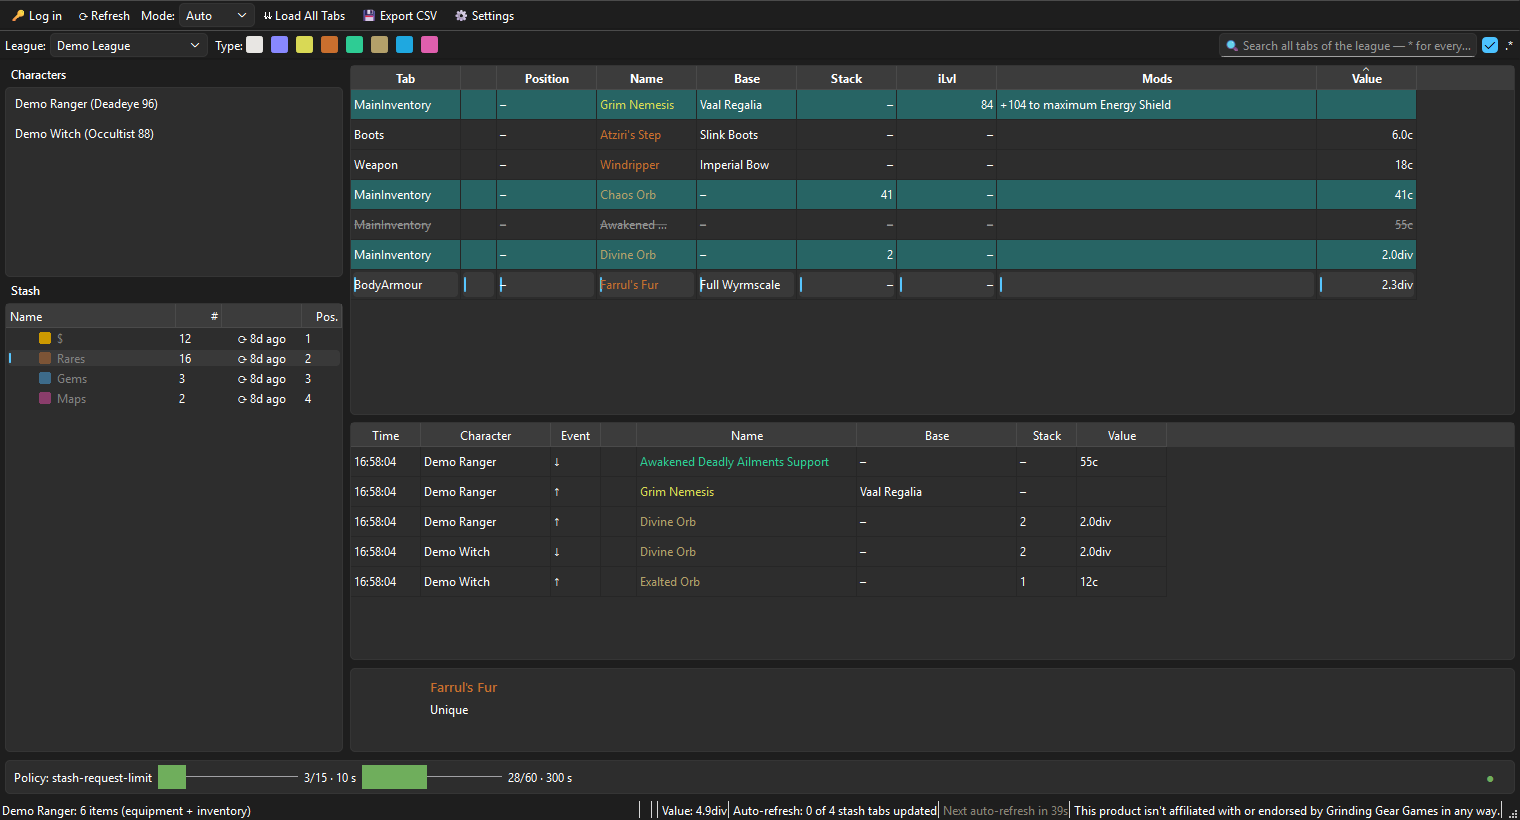
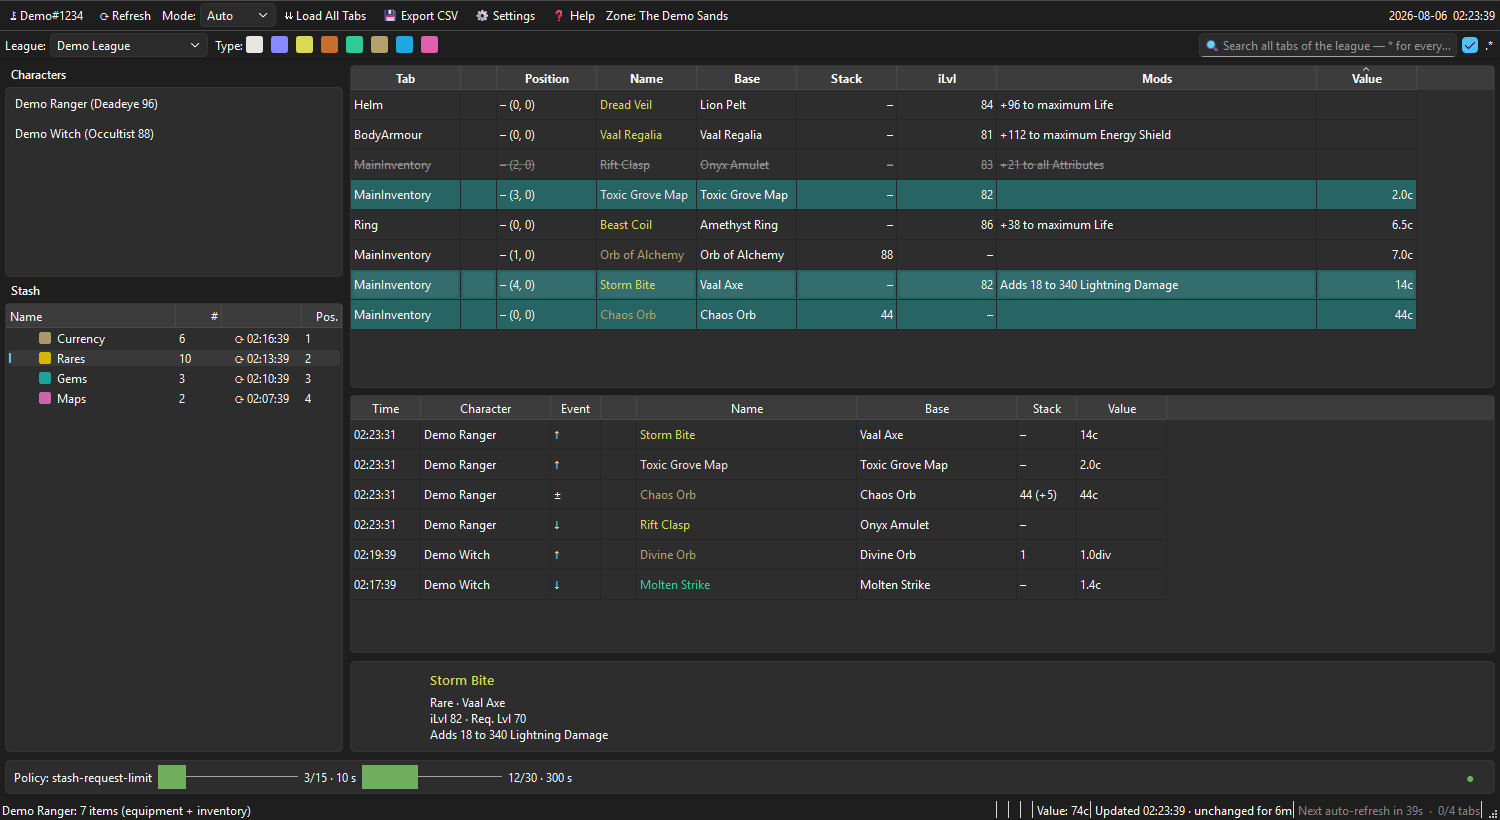
README-Screenshots aus erfundenen Daten neu erzeugt, per Generator
Die drei Bilder stammten vom 2026-08-02 und zeigten eine Oberfläche, die
es so nicht mehr gibt: alte Statuszeile, kein Hilfe-Knopf, keine Uhr,
keine Zonenanzeige, kein "unchanged for".

Statt sie erneut von Hand aufzunehmen, gibt es jetzt
tools/make_screenshots.py. Zwei Gründe. Erstens die Regel über den
Bildern in der README — keine echten Konto-, Charakter- oder Item-Namen.
Die hält von Hand nur, solange beim Aufnehmen jemand daran denkt; hier
stehen die erfundenen Daten im Klartext im Skript. Zweitens veralten die
Bilder sonst wieder, während die Oberfläche weiterläuft. RELEASING.md
nennt den Aufruf jetzt als Schritt vor jedem Release.

config.APP_DATA_DIR zeigt während des Laufs auf ein temporäres
Verzeichnis — sonst läse der Generator den echten Cache und schriebe
womöglich die Spalteneinstellungen um. Dieselbe Vorsichtsmaßnahme wie in
tests/conftest.py.

Drei Dinge, die beim Bauen aufgefallen sind und im Skript kommentiert
stehen: Mit QT_QPA_PLATFORM=offscreen fehlen Qt Systemschriften UND
Systempalette — die Bilder waren hell und jedes Zeichen ein leeres
Kästchen. Der BootstrapJob überschreibt Knopf und Statuszeile mit "No
valid token"; seine Signale werden für den Lauf abgeklemmt. Und nach dem
Setzen der Texte muss das Layout noch einmal laufen, sonst behält die
Statuszeile ihre alten Breiten und schneidet ab — "unchanged for 6m"
stand im Label und fehlte trotzdem im Bild.

diff --git a/tools/make_screenshots.py b/tools/make_screenshots.py
@@ -1,0 +1,382 @@
+"""Erzeugt die README-Screenshots aus erfundenen Daten.
+
+Aufruf: python tools/make_screenshots.py
+
+**Warum ein Generator und keine Handarbeit.** Für die README gilt eine
+harte Regel (sie steht auch über den Bildern): Es dürfen keine echten
+Konto-, Charakter- oder Item-Namen zu sehen sein. Von Hand aufgenommene
+Bilder halten diese Regel nur so lange, wie beim Aufnehmen jemand daran
+denkt — und sie müssen bei jeder Oberflächenänderung neu aufgenommen
+werden, sonst zeigt die README eine Version, die es nicht mehr gibt. Die
+alten drei Bilder vom 2026-08-02 zeigten deshalb noch die Statuszeile von
+vor dem Aufräumen, ohne Hilfe-Knopf, ohne Uhr, ohne Zonenanzeige.
+
+Dieses Skript nimmt beides ab: Die Daten sind erfunden und stehen unten
+im Klartext, und der nächste Lauf bringt die Bilder auf den aktuellen
+Stand der Oberfläche.
+
+**Kein Zugriff auf echte lokale Daten.** ``config.APP_DATA_DIR`` wird auf
+ein temporäres Verzeichnis umgebogen, bevor das Fenster entsteht — sonst
+läse der Generator Peters Cache und schriebe ihm womöglich seine
+Spalteneinstellungen um. Dieselbe Vorsichtsmaßnahme wie in
+``tests/conftest.py``, und aus demselben Grund: In diesem Projekt sind
+schon zweimal Daten verlorengegangen, weil etwas in die echte Datei
+geschrieben hat, das es nicht sollte (FALLSTRICKE #62).
+
+**Läuft NICHT headless**, anders als die Testsuite. Mit
+``QT_QPA_PLATFORM=offscreen`` fehlen Qt sowohl die Systemschriften als
+auch die Systempalette: Der erste Versuch lieferte Bilder, in denen jedes
+Zeichen ein leeres Kästchen war und die Oberfläche hell statt dunkel
+erschien — das dunkle Aussehen kommt unter Windows 11 aus der
+Systemeinstellung, die Anwendung setzt selbst keine Palette. Das Fenster
+erscheint während des Laufs also kurz auf dem Bildschirm. Das ist der
+Preis dafür, dass die Bilder so aussehen wie das Programm.
+"""
+
+from __future__ import annotations
+
+import sys
+import tempfile
+from datetime import datetime, timedelta, timezone
+from pathlib import Path
+
+sys.path.insert(0, str(Path(__file__).resolve().parent.parent))
+
+from PySide6.QtWidgets import QApplication, QSplitter  # noqa: E402
+
+from poe_view import config  # noqa: E402
+
+_TMP = Path(tempfile.mkdtemp(prefix="poe-view2-screenshots-"))
+config.APP_DATA_DIR = _TMP  # VOR jedem Import, der das Fenster baut
+
+from poe_view.api.models import Character, Item, StashTab  # noqa: E402
+from poe_view.api.ninja import PriceIndex  # noqa: E402
+from poe_view.services import data_cache, token_store  # noqa: E402
+
+data_cache._CACHE_FILE = _TMP / "unused.json"
+token_store.load_token = lambda: None  # kein echtes Konto, kein echter Login
+
+from poe_view.ui.item_history import HistoryEntry  # noqa: E402
+from poe_view.ui.main_window import MainWindow  # noqa: E402
+
+OUT = Path(__file__).resolve().parent.parent / "docs" / "screenshots"
+LEAGUE = "Demo League"
+ACCOUNT = "Demo#1234"  # kurz genug, dass der Toolbar-Knopf ihn nicht kürzt
+
+# --------------------------------------------------------------------- #
+# Erfundene Daten. Namen bewusst als solche erkennbar ("Demo …") — ein
+# Screenshot soll niemanden glauben machen, hier stünde ein echtes Konto.
+
+_RARES = [
+    ("Doom Grip", "Titan Gauntlets", 84,
+     ["+78 to maximum Life", "+34% to Fire Resistance", "+29% to Cold Resistance"]),
+    ("Vaal Regalia", "Vaal Regalia", 81,
+     ["+112 to maximum Energy Shield", "+18% to all Elemental Resistances"]),
+    ("Hubris Circlet", "Hubris Circlet", 79,
+     ["+91 to maximum Mana", "+22% to Lightning Resistance"]),
+    ("Two-Toned Boots", "Two-Toned Boots", 83,
+     ["30% increased Movement Speed", "+40 to maximum Life"]),
+    ("Stygian Vise", "Stygian Vise", 86,
+     ["+45 to Strength and Intelligence", "+12% to Chaos Resistance"]),
+    ("Hate Song", "Opal Sceptre", 85,
+     ["+118 to maximum Life", "18% increased Cast Speed", "+1 to Level of all Fire Skills"]),
+    ("Dread Veil", "Lion Pelt", 84,
+     ["+96 to maximum Life", "+31% to Cold Resistance"]),
+    ("Beast Coil", "Amethyst Ring", 86,
+     ["+38 to maximum Life", "+15% to Chaos Resistance", "Adds 12 to 19 Chaos Damage"]),
+    ("Rift Clasp", "Onyx Amulet", 83,
+     ["+21 to all Attributes", "+27% to Fire Resistance", "9% increased Attack Speed"]),
+    ("Storm Bite", "Vaal Axe", 82,
+     ["Adds 18 to 340 Lightning Damage", "24% increased Attack Speed"]),
+]
+
+_CURRENCY = [("Chaos Orb", 42), ("Divine Orb", 3), ("Orb of Alchemy", 88),
+             ("Orb of Scouring", 24), ("Orb of Chance", 61), ("Vaal Orb", 12)]
+
+_GEMS = [("Determination", 21, 20), ("Molten Strike", 20, 23), ("Anomalous Haste", 20, 18)]
+
+_MAPS = [("Toxic Grove Map", 14), ("Sandy Seabed Map", 11)]
+
+# Sichtbare Spalten für die Bilder, in dieser Reihenfolge. Alles Weitere
+# (Level, Qual., Str/Dex/Int) bleibt aus — es würde die Value-Spalte aus
+# dem sichtbaren Bereich schieben.
+_COLUMN_CONFIG = [(name, name in ("Icon", "Position", "Name", "Base", "Stack",
+                                  "iLvl", "Mods", "Value"))
+                  for name in ("Icon", "Position", "Name", "Base", "Type", "Level",
+                               "Qual.", "Stack", "iLvl", "Req.Lvl", "Str", "Dex",
+                               "Int", "Mods", "Value")]
+
+_PRICES = {"Chaos Orb": 1.0, "Divine Orb": 171.2, "Orb of Alchemy": 0.08,
+           "Orb of Scouring": 0.26, "Orb of Chance": 0.06, "Vaal Orb": 0.37,
+           "Determination": 3.0, "Molten Strike": 1.4, "Anomalous Haste": 22.0,
+           "Toxic Grove Map": 2.0, "Sandy Seabed Map": 0.5,
+           "Storm Bite": 14.0, "Beast Coil": 6.5}
+
+
+def _rare(name: str, base: str, ilvl: int, mods: list[str], x: int, y: int) -> Item:
+    return Item.model_validate({
+        "id": f"rare-{name}", "name": name, "typeLine": base, "baseType": base,
+        "frameType": 2, "ilvl": ilvl, "explicitMods": mods, "x": x, "y": y,
+        "identified": True,
+        "requirements": [{"name": "Level", "values": [[str(ilvl - 12), 0]]}],
+    })
+
+
+def _currency(name: str, stack: int, x: int, y: int) -> Item:
+    return Item.model_validate({
+        "id": f"cur-{name}", "typeLine": name, "baseType": name, "frameType": 5,
+        "stackSize": stack, "maxStackSize": 5000, "x": x, "y": y,
+    })
+
+
+def _gem(name: str, level: int, quality: int, x: int, y: int) -> Item:
+    return Item.model_validate({
+        "id": f"gem-{name}", "typeLine": name, "baseType": name, "frameType": 4,
+        "x": x, "y": y,
+        "properties": [{"name": "Level", "values": [[str(level), 0]]},
+                       {"name": "Quality", "values": [[f"+{quality}%", 1]]}],
+    })
+
+
+def _map_item(name: str, tier: int, x: int, y: int) -> Item:
+    return Item.model_validate({
+        "id": f"map-{name}", "typeLine": name, "baseType": name, "frameType": 0,
+        "ilvl": 68 + tier, "x": x, "y": y,
+        "properties": [{"name": "Map Tier", "values": [[str(tier), 0]]},
+                       {"name": "Item Quantity", "values": [["+64%", 1]]}],
+    })
+
+
+def _price_index() -> PriceIndex:
+    index = PriceIndex()
+    index._simple.update(_PRICES)
+    return index
+
+
+def _stashes() -> list[StashTab]:
+    colours = {"Currency": "aa9a68", "Rares": "d4b800", "Gems": "1ba29b",
+               "Maps": "cc66aa"}
+    return [StashTab(id=key.lower(), name=key, type="PremiumStash", index=i,
+                     metadata={"colour": colours[key]})
+            for i, key in enumerate(("Currency", "Rares", "Gems", "Maps"), start=1)]
+
+
+def _items_by_tab() -> dict[str, list[Item]]:
+    return {
+        "currency": [_currency(n, s, i % 4, i // 4) for i, (n, s) in enumerate(_CURRENCY)],
+        "rares": [_rare(n, b, lvl, mods, i % 5, i // 5)
+                  for i, (n, b, lvl, mods) in enumerate(_RARES)],
+        "gems": [_gem(n, lv, q, i, 0) for i, (n, lv, q) in enumerate(_GEMS)],
+        "maps": [_map_item(n, t, i, 0) for i, (n, t) in enumerate(_MAPS)],
+    }
+
+
+def _characters() -> list[Character]:
+    return [
+        Character.model_validate({"name": "Demo Ranger", "league": LEAGUE, "classId": 5,
+                                  "ascendancyClass": 1, "class": "Deadeye", "level": 96,
+                                  "experience": 4_250_334_444}),
+        Character.model_validate({"name": "Demo Witch", "league": LEAGUE, "classId": 1,
+                                  "ascendancyClass": 2, "class": "Occultist", "level": 88,
+                                  "experience": 1_998_112_003}),
+    ]
+
+
+def _character_items(before: bool) -> list[Item]:
+    """Zwei Stände desselben Inventars — der Unterschied erzeugt im dritten
+    Bild die Türkis-/Grau-Hervorhebung, um die es dort geht."""
+    worn = [
+        _rare("Dread Veil", "Lion Pelt", 84, ["+96 to maximum Life"], 0, 0),
+        _rare("Vaal Regalia", "Vaal Regalia", 81, ["+112 to maximum Energy Shield"], 0, 0),
+        _rare("Beast Coil", "Amethyst Ring", 86, ["+38 to maximum Life"], 0, 0),
+    ]
+    for item, slot in zip(worn, ("Helm", "BodyArmour", "Ring")):
+        item.inventoryId = slot
+    if before:
+        bag = [_currency("Chaos Orb", 39, 0, 0), _currency("Orb of Alchemy", 88, 1, 0),
+               _rare("Rift Clasp", "Onyx Amulet", 83, ["+21 to all Attributes"], 2, 0)]
+    else:
+        # Chaos Orbs sind mehr geworden, das Amulett ist weg, zwei Dinge neu.
+        bag = [_currency("Chaos Orb", 44, 0, 0), _currency("Orb of Alchemy", 88, 1, 0),
+               _map_item("Toxic Grove Map", 14, 3, 0),
+               _rare("Storm Bite", "Vaal Axe", 82,
+                     ["Adds 18 to 340 Lightning Damage"], 4, 0)]
+    for item in bag:
+        item.inventoryId = "MainInventory"
+    return worn + bag
+
+
+# --------------------------------------------------------------------- #
+
+def _build_window() -> MainWindow:
+    win = MainWindow()
+    win.resize(1500, 820)
+    # Der BootstrapJob findet (absichtlich) kein Token und meldet "No valid
+    # token — please log in". Diese Meldung soll die Bilder nicht erreichen;
+    # die Verbindung wird deshalb gekappt, statt den gesetzten Zustand
+    # hinterher immer wieder zu reparieren. Der Worker läuft weiter, hat
+    # aber nichts mehr zu tun — es wird kein Job abgeschickt.
+    win.worker.login_required.disconnect(win._on_login_required)
+    win.worker.status.disconnect(win._on_status)
+    items = _items_by_tab()
+    now = datetime.now(timezone.utc)
+
+    win._account_name = ACCOUNT
+    win._logged_in = True
+    win._login_button.setText(f"⚷ {ACCOUNT}")
+    win._current_league = LEAGUE
+    win._stash_trees[LEAGUE] = _stashes()
+    win._leaf_stashes = list(win._stash_trees[LEAGUE])
+    win._items[LEAGUE] = items
+    win._last_loaded[LEAGUE] = {
+        sid: (now - timedelta(minutes=7 + i * 3)).isoformat()
+        for i, sid in enumerate(items)
+    }
+    win._all_characters = _characters()
+    win._character_items = {"Demo Ranger": _character_items(before=False)}
+
+    win._league_combo.blockSignals(True)
+    win._league_combo.clear()
+    win._league_combo.addItem(LEAGUE)
+    win._league_combo.blockSignals(False)
+    win.tree.set_stashes(win._stash_trees[LEAGUE], win._last_loaded[LEAGUE],
+                         {sid: len(v) for sid, v in items.items()},
+                         win._tab_positions())
+    win.character_list.set_characters(win._all_characters)
+    win.table_model.set_price_index(_price_index())
+    win.history_model.set_price_index(_price_index())
+    # Weniger Spalten als die Voreinstellung: Sonst schiebt die volle
+    # Breite (Level/Qual./Str/Dex/Int) ausgerechnet die Value-Spalte aus
+    # dem Bild — die, von der der README-Text daneben handelt. Gezeigt
+    # wird damit auch, dass die Spaltenauswahl konfigurierbar ist.
+    win._apply_column_config(_COLUMN_CONFIG)
+
+    # Zonenanzeige und Rate-Limit-Dashboard sind Teil der Oberfläche und
+    # sollen deshalb gefüllt sein — beides ohne Netzwerk, direkt gesetzt.
+    win._zone_label.setText("The Demo Sands")
+    win.worker.rate_limiter.update_from_headers({
+        "X-Rate-Limit-Policy": "stash-request-limit",
+        "X-Rate-Limit-Rules": "Account",
+        "X-Rate-Limit-Account": "15:10:60,30:300:1800",
+        "X-Rate-Limit-Account-State": "3:10:0,12:300:0",
+    })
+    win._on_rate_limit_changed(*win.worker.rate_limiter.snapshot())
+    return win
+
+
+def _demo_session_state(win: MainWindow) -> None:
+    """Angemeldeter Zustand, vor jeder Aufnahme gesetzt."""
+    win._logged_in = True
+    win._login_button.setText(f"⚷ {ACCOUNT}")
+    win._update_online_controls_enabled()
+    # "unchanged for" (§4.31) im Bild zeigen, ohne minutenlang zu warten.
+    # Zweimal aufrufen: Der erste Aufruf merkt sich den Inhalt und setzt
+    # den Zeitpunkt dabei auf jetzt — erst danach lässt er sich
+    # zurückdatieren, ohne gleich wieder überschrieben zu werden.
+    win._note_view_updated()
+    win._view_content_since = datetime.now() - timedelta(minutes=6)
+    win._note_view_updated()
+    win._update_refresh_status()
+
+
+def _row_of(win: MainWindow, display_name: str) -> int:
+    """Zeilennummer eines Items in der ANGEZEIGTEN (gefilterten,
+    sortierten) Reihenfolge — feste Indizes wären beim nächsten
+    Datenzusatz still falsch."""
+    for row in range(win.proxy.rowCount()):
+        item = win.table_model.item_at(win.proxy.mapToSource(win.proxy.index(row, 0)).row())
+        if item is not None and item.display_name == display_name:
+            return row
+    raise LookupError(f"{display_name!r} steht nicht in der Tabelle")
+
+
+def _shot(win: MainWindow, name: str) -> None:
+    app = QApplication.instance()
+    _demo_session_state(win)
+    # Nach dem Setzen der Texte MUSS das Layout noch einmal laufen: Sonst
+    # behält die Statuszeile die Breiten von vorher und schneidet den
+    # längeren Text ab — real passiert: "unchanged for 6m" stand im Label
+    # und fehlte trotzdem im Bild.
+    for _ in range(3):
+        app.processEvents()
+    OUT.mkdir(parents=True, exist_ok=True)
+    path = OUT / name
+    assert win.grab().save(str(path)), f"{name} ließ sich nicht schreiben"
+    print(f"  {path.relative_to(OUT.parent.parent)}  ({path.stat().st_size // 1024} KB)")
+
+
+def _overview(win: MainWindow) -> None:
+    """Liga-weite Suche: alle Fächer und Charaktere in EINER Tabelle."""
+    win._filter_edit.setText("*")
+    win._enter_search_all()
+    win._apply_debounced_search_filter()
+    win._note_view_updated()
+    win._update_refresh_status()
+    _shot(win, "uebersicht.png")
+
+
+def _item_details(win: MainWindow) -> None:
+    """Ein einzelnes Fach mit ausgewähltem Item und seinen Mods."""
+    win._filter_edit.clear()
+    win._search_all_active = False
+    win._current_stash_id = "rares"
+    win._current_tab_name = "Rares"
+    win._show_items("rares", win._items[LEAGUE]["rares"], "Rares")
+    win.table.selectRow(5)
+    win._on_row_selected(win.proxy.index(5, 0), None)
+    win._note_view_updated()
+    _shot(win, "item-details.png")
+
+
+def _character_history(win: MainWindow) -> None:
+    """Charakter-Inventar nach einem Refresh: Hervorhebung + Verlauf."""
+    win._current_stash_id = None
+    win._current_character_name = "Demo Ranger"
+    before, after = _character_items(before=True), _character_items(before=False)
+    # Erst die Vergleichsbasis dieser "Sitzung" setzen, dann den neuen
+    # Stand — sonst unterdrückt der Schutz gegen gecachte Vergleichsbasen
+    # die Hervorhebung, genau wie im echten Betrieb (§4.29).
+    win._session_fetched_chars.add("Demo Ranger")
+    win._character_items["Demo Ranger"] = before
+    win._on_character_items("Demo Ranger", after, silent=False)
+
+    now = datetime.now(timezone.utc)
+    win.history_model.set_entries([
+        HistoryEntry(now - timedelta(seconds=8), "added", "Demo Ranger", after[-1]),
+        HistoryEntry(now - timedelta(seconds=8), "added", "Demo Ranger", after[-2]),
+        HistoryEntry(now - timedelta(seconds=8), "changed", "Demo Ranger", after[3], 5),
+        HistoryEntry(now - timedelta(seconds=8), "removed", "Demo Ranger", before[-1]),
+        HistoryEntry(now - timedelta(minutes=4), "added", "Demo Witch",
+                     _currency("Divine Orb", 1, 0, 0)),
+        HistoryEntry(now - timedelta(minutes=6), "removed", "Demo Witch",
+                     _gem("Molten Strike", 20, 23, 0, 0)),
+    ])
+    # Verlaufs-Panel aufziehen: Es ist im Betrieb auf eine Zeile
+    # eingeklappt, für das Bild soll es zeigen, was es kann.
+    splitter = win.history_table.parent()
+    if isinstance(splitter, QSplitter):
+        splitter.setSizes([460, 260])
+    # Ein Item AUS DIESER Ansicht auswählen: Sonst zeigt das Detail-Panel
+    # noch den Fund aus dem vorigen Bild, der hier gar nicht vorkommt.
+    row = _row_of(win, "Storm Bite")
+    win.table.selectRow(row)
+    win._on_row_selected(win.proxy.index(row, 0), None)
+    win._note_view_updated()
+    _shot(win, "charakter-verlauf.png")
+
+
+def main() -> None:
+    app = QApplication.instance() or QApplication([])
+    win = _build_window()
+    win.show()
+    print("Screenshots aus erfundenen Daten:")
+    _overview(win)
+    _item_details(win)
+    _character_history(win)
+    win.worker.stop()
+    win.worker.wait(5000)
+    app.processEvents()
+
+
+if __name__ == "__main__":
+    main()

diff --git a/RELEASING.md b/RELEASING.md
@@ -11,7 +11,13 @@ Versionsstand in `CHANGELOG.md` und in `poe_view/__init__.py`
 2. `CHANGELOG.md`: Abschnitt `[Unveröffentlicht]` in `## [X.Y.Z] - JJJJ-MM-TT`
    umbenennen, neuen leeren `[Unveröffentlicht]`-Abschnitt darüber anlegen.
 3. Tests ausführen (`pytest`). Nur bei vollständig grüner Suite weitermachen.
-4. Beide Dateien committen (z. B. `Release vX.Y.Z vorbereiten`).
+4. Hat sich die Oberfläche seit dem letzten Release sichtbar geändert:
+   `python tools/make_screenshots.py`. Das Skript erzeugt die drei
+   README-Bilder neu, aus erfundenen Daten und ohne Zugriff auf den
+   echten Cache — von Hand aufgenommene Bilder sind dagegen genau der
+   Weg, auf dem versehentlich echte Konto- oder Charakternamen in die
+   README geraten. Es läuft NICHT headless, das Fenster erscheint kurz.
+5. Geänderte Dateien committen (z. B. `Release vX.Y.Z vorbereiten`).
 
 ## 2. Windows-.exe bauen
 
